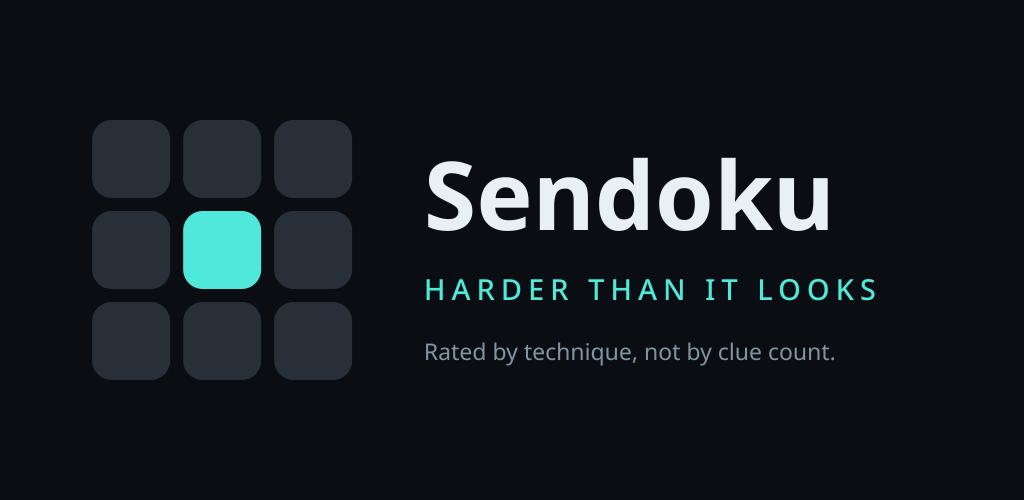
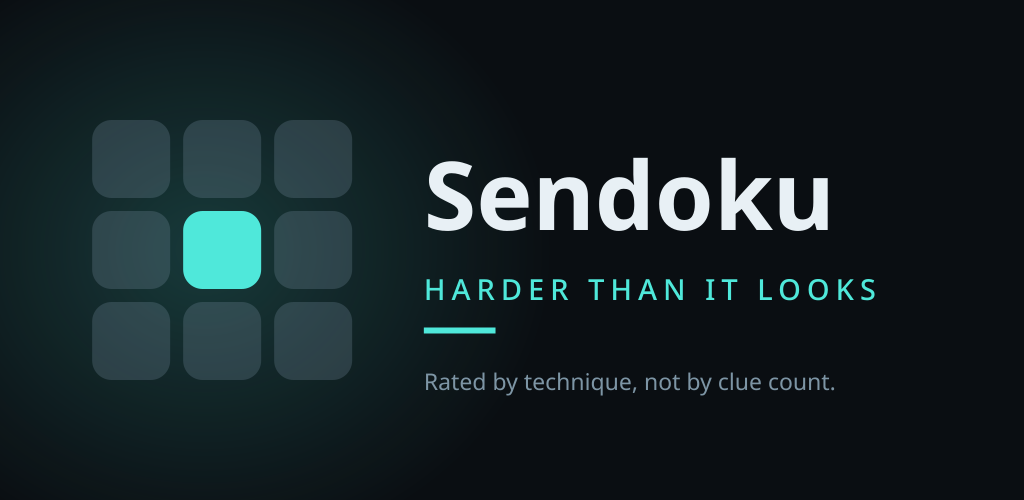
make the store artwork: a sentence over every screenshot, and four themes in one card

diff --git a/app/src/androidTest/kotlin/com/sendoku/app/ui/StoreShotsTest.kt b/app/src/androidTest/kotlin/com/sendoku/app/ui/StoreShotsTest.kt
@@ -70,8 +70,12 @@ class StoreShotsTest {
 
     /** The same frame the app puts around a screen, so a tablet shot is framed like a tablet. */
     @Composable
-    private fun Scene(dark: Boolean = true, content: @Composable (Modifier) -> Unit) {
-        SendokuTheme(themeId = SendokuThemeId.DEEP_FIELD, dark = dark) {
+    private fun Scene(
+        theme: SendokuThemeId = SendokuThemeId.DEEP_FIELD,
+        dark: Boolean = true,
+        content: @Composable (Modifier) -> Unit,
+    ) {
+        SendokuTheme(themeId = theme, dark = dark) {
             ReadableWidth { pane -> content(pane) }
         }
     }
@@ -214,9 +218,29 @@ class StoreShotsTest {
     }
 
     @Test
-    fun light() {
+    fun themeDeepField() = theme(SendokuThemeId.DEEP_FIELD, dark = true)
+
+    @Test
+    fun themeInk() = theme(SendokuThemeId.INK, dark = false)
+
+    // Zen in its light mode on purpose. Zen dark and Terminal are both dark grey green, and
+    // side by side in one picture they read as the same theme twice.
+    @Test
+    fun themeZen() = theme(SendokuThemeId.ZEN, dark = false)
+
+    @Test
+    fun themeTerminal() = theme(SendokuThemeId.TERMINAL, dark = true)
+
+    /**
+     * The same board in one theme, written out as an ingredient rather than a screenshot.
+     *
+     * The x prefix says so: `tools/store-cards.py` builds these four into the one themes card
+     * that gets uploaded, and never uploads them singly. A store listing has eight slots and
+     * spending four of them on the same grid in four colours would be a poor trade.
+     */
+    private fun theme(id: SendokuThemeId, dark: Boolean) {
         compose.setContent {
-            Scene(dark = false) { pane ->
+            Scene(theme = id, dark = dark) { pane ->
                 GameScreen(
                     state = midGame(Grade.TRICKY, seed = 4, placed = 30),
                     onEvent = {},
@@ -230,7 +254,7 @@ class StoreShotsTest {
                 )
             }
         }
-        shot("5-light")
+        shot("x-theme-" + id.name.lowercase())
     }
 
     @Test

diff --git a/tools/store-cards.py b/tools/store-cards.py
@@ -1,0 +1,263 @@
+#!/usr/bin/env python3
+"""
+The store screenshots as Play shows them: a phone, on a background, under a sentence.
+
+    ./tools/store-shots.sh        # render the screens on a device
+    python3 tools/store-cards.py  # turn them into store artwork
+
+Reads branding/screenshots/<bucket>/<n>-<name>.png and writes branding/store/<bucket>/ with
+the same names. Deterministic, safe to run again. Needs ImageMagick 7 (magick).
+
+WHY NOT UPLOAD THE RAW GRABS: two reasons, one of them a hard requirement.
+
+Play asks phone screenshots to be 16:9 or 9:16. A modern phone grab is 9:20, so a raw shot
+either gets refused or letterboxed by somebody else's idea of a background colour. Compositing
+onto a 1080x1920 canvas settles that.
+
+The other reason is that a store listing is read at thumbnail size in a horizontal carousel.
+Nobody reads a 9pt technique name in that strip. The sentence over each shot is what carries
+the feature; the picture underneath is the proof.
+
+The words are English only. A listing in another language falls back to these unless it gets
+its own set, which is a deliberate trade: twelve sets of artwork to keep in step with every
+screen change is a cost the app does not need yet.
+"""
+import os
+import subprocess
+
+ROOT = os.path.dirname(os.path.dirname(os.path.abspath(__file__)))
+SHOTS = os.path.join(ROOT, "branding", "screenshots")
+OUT = os.path.join(ROOT, "branding", "store")
+WORK = os.path.join(OUT, ".work")
+FONT = os.path.join(ROOT, "app/src/main/res/font/inter_semibold.ttf")
+
+# Deep Field, the theme every shot was taken in.
+INK, TEAL, PAPER, BOARD = "#0A0E12", "#4FE8DA", "#E8F0F5", "#131A21"
+
+# One sentence per screen, in the order Play shows them. The first three are the ones that
+# appear in search results, so they carry the three things no other sudoku app has: a hint
+# that argues, a ladder that goes further, and a rating that means something.
+CAPTIONS = {
+    "1-hint": "Hints that teach the technique, not just the digit",
+    "2-home": "Eight levels, and the top three go past Extreme",
+    "3-beyond": "Master, Insane and Nightmare, all solvable by logic",
+    "4-glossary": "Every technique, explained in a sentence",
+    "5-themes": "Four themes, each with a typeface of its own",
+    "6-stats": "Your record, kept on your phone and nowhere else",
+    "7-settings": "Twelve languages. No account, no adverts",
+    "8-solved": "After a win, see where the time actually went",
+}
+
+# Canvas per bucket. Phone is 9:16 exactly, which is what Play asks for. The tablets keep
+# their own shape, which is inside the range Play allows for those.
+CANVAS = {"phone": (1080, 1920), "tablet7": (1200, 1920), "tablet10": (1600, 2560)}
+
+
+def run(*args):
+    subprocess.run([str(a) for a in args], check=True)
+
+
+def size(path):
+    out = subprocess.run(["magick", str(path), "-format", "%w %h", "info:"],
+                         capture_output=True, text=True, check=True).stdout
+    return tuple(int(v) for v in out.split())
+
+
+def card(src, dst, width, height, caption):
+    work = os.path.join(WORK, os.path.basename(dst))
+    os.makedirs(work, exist_ok=True)
+
+    # The words first, because how tall they turn out decides how much is left for the phone.
+    text_width = int(width * 0.84)
+    point = int(width * 0.052)
+    text = os.path.join(work, "text.png")
+    run("magick", "-background", "none", "-fill", PAPER, "-font", FONT,
+        "-pointsize", point, "-interline-spacing", int(point * 0.30),
+        "-size", f"{text_width}x", "-gravity", "center", f"caption:{caption}", text)
+    _, text_height = size(text)
+
+    top = int(height * 0.055)
+    gap = int(height * 0.045)
+    bottom = int(height * 0.045)
+    room = height - top - text_height - gap - bottom
+
+    shot_width, shot_height = size(src)
+    scale = min(room / shot_height, (width * 0.70) / shot_width)
+    phone_width = int(shot_width * scale)
+    phone_height = int(shot_height * scale)
+
+    radius = int(phone_width * 0.075)
+    small = os.path.join(work, "small.png")
+    run("magick", src, "-resize", f"{phone_width}x{phone_height}!", small)
+    mask = os.path.join(work, "mask.png")
+    run("magick", "-size", f"{phone_width}x{phone_height}", "xc:black", "-fill", "white",
+        "-draw", f"roundrectangle 0,0,{phone_width - 1},{phone_height - 1},{radius},{radius}", mask)
+    rounded = os.path.join(work, "rounded.png")
+    run("magick", small, mask, "-alpha", "off", "-compose", "CopyOpacity", "-composite", rounded)
+
+    bezel = max(2, int(phone_width * 0.006))
+    frame = os.path.join(work, "frame.png")
+    run("magick", "-size", f"{phone_width + bezel * 2}x{phone_height + bezel * 2}", "xc:none",
+        "-fill", BOARD, "-draw",
+        f"roundrectangle 0,0,{phone_width + bezel * 2 - 1},{phone_height + bezel * 2 - 1},"
+        f"{radius + bezel},{radius + bezel}", frame)
+    device = os.path.join(work, "device.png")
+    run("magick", frame, rounded, "-geometry", f"+{bezel}+{bezel}", "-composite", device)
+    shadowed = os.path.join(work, "shadowed.png")
+    run("magick", device, "(", "+clone", "-background", "black", "-shadow", "55x40+0+24", ")",
+        "+swap", "-background", "none", "-layers", "merge", "+repage", shadowed)
+
+    # The ground: near black with one teal glow behind the phone, the same light the app's
+    # own accent throws. Flat black reads as a missing image at thumbnail size.
+    base = os.path.join(work, "base.png")
+    run("magick", "-size", f"{width}x{height}", f"xc:{INK}", base)
+    glow = os.path.join(work, "glow.png")
+    run("magick", "-size", f"{width}x{width}", "radial-gradient:#4FE8DA26-none",
+        "-resize", f"{int(width * 1.6)}x{int(height * 0.9)}!", glow)
+    run("magick", base, glow, "-gravity", "center", "-geometry", f"+0+{int(height * 0.08)}",
+        "-composite", base)
+
+    # A teal rule under the sentence, the same mark the app puts under a heading.
+    rule_y = top + text_height + int(gap * 0.42)
+    rule_w = int(width * 0.10)
+    run("magick", base, "-fill", TEAL,
+        "-draw", f"rectangle {(width - rule_w) // 2},{rule_y} {(width + rule_w) // 2},{rule_y + max(3, height // 480)}",
+        base)
+
+    device_width, device_height = size(shadowed)
+    run("magick", base,
+        text, "-gravity", "north", "-geometry", f"+0+{top}", "-composite",
+        shadowed, "-gravity", "north", "-geometry", f"+0+{top + text_height + gap}", "-composite",
+        "-strip", dst)
+    for name in os.listdir(work):
+        os.remove(os.path.join(work, name))
+    os.rmdir(work)
+    return device_width, device_height
+
+
+# The four themes, in the order the settings screen lists them, filling the card left to right.
+THEME_ORDER = ["deep_field", "ink", "zen", "terminal"]
+
+# Where the board sits in a shot, as a square: how much of the width it takes, and how far
+# down it starts. Four whole phones in one card leaves each board too small to see the point
+# of, and the point is the colours and the typeface, both of which live on the board. The
+# numbers are per screen size because the board is capped at 560dp and then centred, so it
+# fills a phone and floats in the middle of a tablet.
+BOARD_BOX = {"phone": (1.0, 0.052), "tablet7": (0.72, 0.060), "tablet10": (0.70, 0.060)}
+
+
+def themes_card(source, dst, width, height, caption, bucket):
+    """Four boards in a two by two, so the claim and the proof are the same picture."""
+    work = os.path.join(WORK, "themes")
+    os.makedirs(work, exist_ok=True)
+
+    text_width = int(width * 0.84)
+    point = int(width * 0.052)
+    text = os.path.join(work, "text.png")
+    run("magick", "-background", "none", "-fill", PAPER, "-font", FONT,
+        "-pointsize", point, "-interline-spacing", int(point * 0.30),
+        "-size", f"{text_width}x", "-gravity", "center", f"caption:{caption}", text)
+    _, text_height = size(text)
+
+    top = int(height * 0.055)
+    gap = int(height * 0.045)
+    bottom = int(height * 0.045)
+    room = height - top - text_height - gap - bottom
+    space = int(width * 0.035)
+
+    raw = [os.path.join(source, f"x-theme-{name}.png") for name in THEME_ORDER]
+    for shot in raw:
+        if not os.path.exists(shot):
+            raise SystemExit(f"the themes card needs {shot}: run ./tools/store-shots.sh first")
+    side_fraction, top_fraction = BOARD_BOX[bucket]
+    full_width, full_height = size(raw[0])
+    square = int(full_width * side_fraction)
+    offset_x = (full_width - square) // 2
+    offset_y = int(full_height * top_fraction)
+    shots = []
+    for index, shot in enumerate(raw):
+        cropped = os.path.join(work, f"board{index}.png")
+        run("magick", shot, "-crop", f"{square}x{square}+{offset_x}+{offset_y}", "+repage", cropped)
+        shots.append(cropped)
+    shot_width, shot_height = size(shots[0])
+    cell_width = (int(width * 0.92) - space) // 2
+    cell_height = (room - space) // 2
+    scale = min(cell_width / shot_width, cell_height / shot_height)
+    one_width, one_height = int(shot_width * scale), int(shot_height * scale)
+    radius = int(one_width * 0.075)
+    bezel = max(2, int(one_width * 0.008))
+
+    grid_width = one_width * 2 + space + bezel * 4
+    grid_height = one_height * 2 + space + bezel * 4
+    grid = os.path.join(work, "grid.png")
+    run("magick", "-size", f"{grid_width}x{grid_height}", "xc:none", grid)
+    for index, shot in enumerate(shots):
+        small, mask = os.path.join(work, "s.png"), os.path.join(work, "m.png")
+        rounded, frame, device = (os.path.join(work, n) for n in ("r.png", "f.png", "d.png"))
+        run("magick", shot, "-resize", f"{one_width}x{one_height}!", small)
+        run("magick", "-size", f"{one_width}x{one_height}", "xc:black", "-fill", "white",
+            "-draw", f"roundrectangle 0,0,{one_width - 1},{one_height - 1},{radius},{radius}", mask)
+        run("magick", small, mask, "-alpha", "off", "-compose", "CopyOpacity", "-composite", rounded)
+        run("magick", "-size", f"{one_width + bezel * 2}x{one_height + bezel * 2}", "xc:none",
+            "-fill", BOARD, "-draw",
+            f"roundrectangle 0,0,{one_width + bezel * 2 - 1},{one_height + bezel * 2 - 1},"
+            f"{radius + bezel},{radius + bezel}", frame)
+        run("magick", frame, rounded, "-geometry", f"+{bezel}+{bezel}", "-composite", device)
+        x = (index % 2) * (one_width + space + bezel * 2)
+        y = (index // 2) * (one_height + space + bezel * 2)
+        run("magick", grid, device, "-geometry", f"+{x}+{y}", "-composite", grid)
+
+    shadowed = os.path.join(work, "shadowed.png")
+    run("magick", grid, "(", "+clone", "-background", "black", "-shadow", "50x36+0+20", ")",
+        "+swap", "-background", "none", "-layers", "merge", "+repage", shadowed)
+
+    base = os.path.join(work, "base.png")
+    run("magick", "-size", f"{width}x{height}", f"xc:{INK}", base)
+    glow = os.path.join(work, "glow.png")
+    run("magick", "-size", f"{width}x{width}", "radial-gradient:#4FE8DA26-none",
+        "-resize", f"{int(width * 1.6)}x{int(height * 0.9)}!", glow)
+    run("magick", base, glow, "-gravity", "center", "-geometry", f"+0+{int(height * 0.08)}",
+        "-composite", base)
+    rule_y = top + text_height + int(gap * 0.42)
+    rule_w = int(width * 0.10)
+    run("magick", base, "-fill", TEAL,
+        "-draw", f"rectangle {(width - rule_w) // 2},{rule_y} {(width + rule_w) // 2},"
+                 f"{rule_y + max(3, height // 480)}", base)
+    # The grid is as wide as the card allows, which usually leaves it shorter than the room
+    # under the words. Centring it in that room stops the card looking top heavy.
+    _, block_height = size(shadowed)
+    place = top + text_height + gap + max(0, (room - block_height) // 2)
+    run("magick", base,
+        text, "-gravity", "north", "-geometry", f"+0+{top}", "-composite",
+        shadowed, "-gravity", "north", "-geometry", f"+0+{place}", "-composite",
+        "-strip", dst)
+    for name in os.listdir(work):
+        os.remove(os.path.join(work, name))
+    os.rmdir(work)
+
+
+def main():
+    os.makedirs(WORK, exist_ok=True)
+    for bucket, (width, height) in CANVAS.items():
+        source = os.path.join(SHOTS, bucket)
+        if not os.path.isdir(source):
+            continue
+        target = os.path.join(OUT, bucket)
+        os.makedirs(target, exist_ok=True)
+        for name in sorted(os.listdir(source)):
+            # x is the prefix for an ingredient: a render that feeds a card rather than
+            # being one. The four theme boards are the only ones today.
+            if not name.endswith(".png") or name.startswith("x-"):
+                continue
+            caption = CAPTIONS.get(os.path.splitext(name)[0])
+            if caption is None:
+                raise SystemExit(f"{name} has no caption. Add one to CAPTIONS.")
+            card(os.path.join(source, name), os.path.join(target, name), width, height, caption)
+        themes_card(source, os.path.join(target, "5-themes.png"), width, height,
+                    CAPTIONS["5-themes"], bucket)
+        print(f"{bucket}: {len(os.listdir(target))} cards at {width}x{height}")
+    os.rmdir(WORK)
+
+
+if __name__ == "__main__":
+    main()

diff --git a/tools/make-branding.py b/tools/make-branding.py
@@ -177,13 +177,27 @@ def svg_wordmark(width=1600, height=400, background=None):
 
 
 def svg_feature(width=1024, height=500):
-    """The store feature graphic. Mark on the left, name and one promise on the right."""
+    """
+    The store feature graphic. Mark on the left, name and one promise on the right.
+
+    A glow behind the mark, because this graphic is shown as a wide band at the top of the
+    listing and a flat near black rectangle reads there as a picture that failed to load. The
+    right third is left quiet on purpose: Play draws its own title and install button over
+    parts of this image in some placements, and anything put there competes with them.
+    """
     mark_side = height * 0.52
     on, off = cells(mark_side, width * 0.09, (height - mark_side) / 2)
     out = [
         f'<svg xmlns="http://www.w3.org/2000/svg" width="{width}" height="{height}" '
         f'viewBox="0 0 {width} {height}">',
+        "<defs>",
+        f'<radialGradient id="glow" cx="0.5" cy="0.5" r="0.5">'
+        f'<stop offset="0%" stop-color="{TEAL}" stop-opacity="0.20"/>'
+        f'<stop offset="100%" stop-color="{TEAL}" stop-opacity="0"/></radialGradient>',
+        "</defs>",
         f'<rect width="{width}" height="{height}" fill="{INK}"/>',
+        f'<ellipse cx="{width * 0.20}" cy="{height * 0.5}" rx="{width * 0.34}" '
+        f'ry="{height * 0.62}" fill="url(#glow)"/>',
     ]
     for d in off:
         out.append(f'<path d="{d}" fill="{SLATE}" fill-opacity="0.26"/>')
@@ -196,7 +210,9 @@ def svg_feature(width=1024, height=500):
         f'<text x="{left}" y="{height * 0.60}" font-family="Inter, Noto Sans, sans-serif" '
         f'font-weight="500" font-size="{height * 0.058}" letter-spacing="{height * 0.012}" '
         f'fill="{TEAL}">HARDER THAN IT LOOKS</text>',
-        f'<text x="{left}" y="{height * 0.72}" font-family="Inter, Noto Sans, sans-serif" '
+        f'<rect x="{left}" y="{height * 0.655}" width="{width * 0.07}" height="{height * 0.012}" '
+        f'fill="{TEAL}"/>',
+        f'<text x="{left}" y="{height * 0.78}" font-family="Inter, Noto Sans, sans-serif" '
         f'font-weight="400" font-size="{height * 0.046}" fill="{MUTED}">'
         f'Rated by technique, not by clue count.</text>',
         "</svg>",
